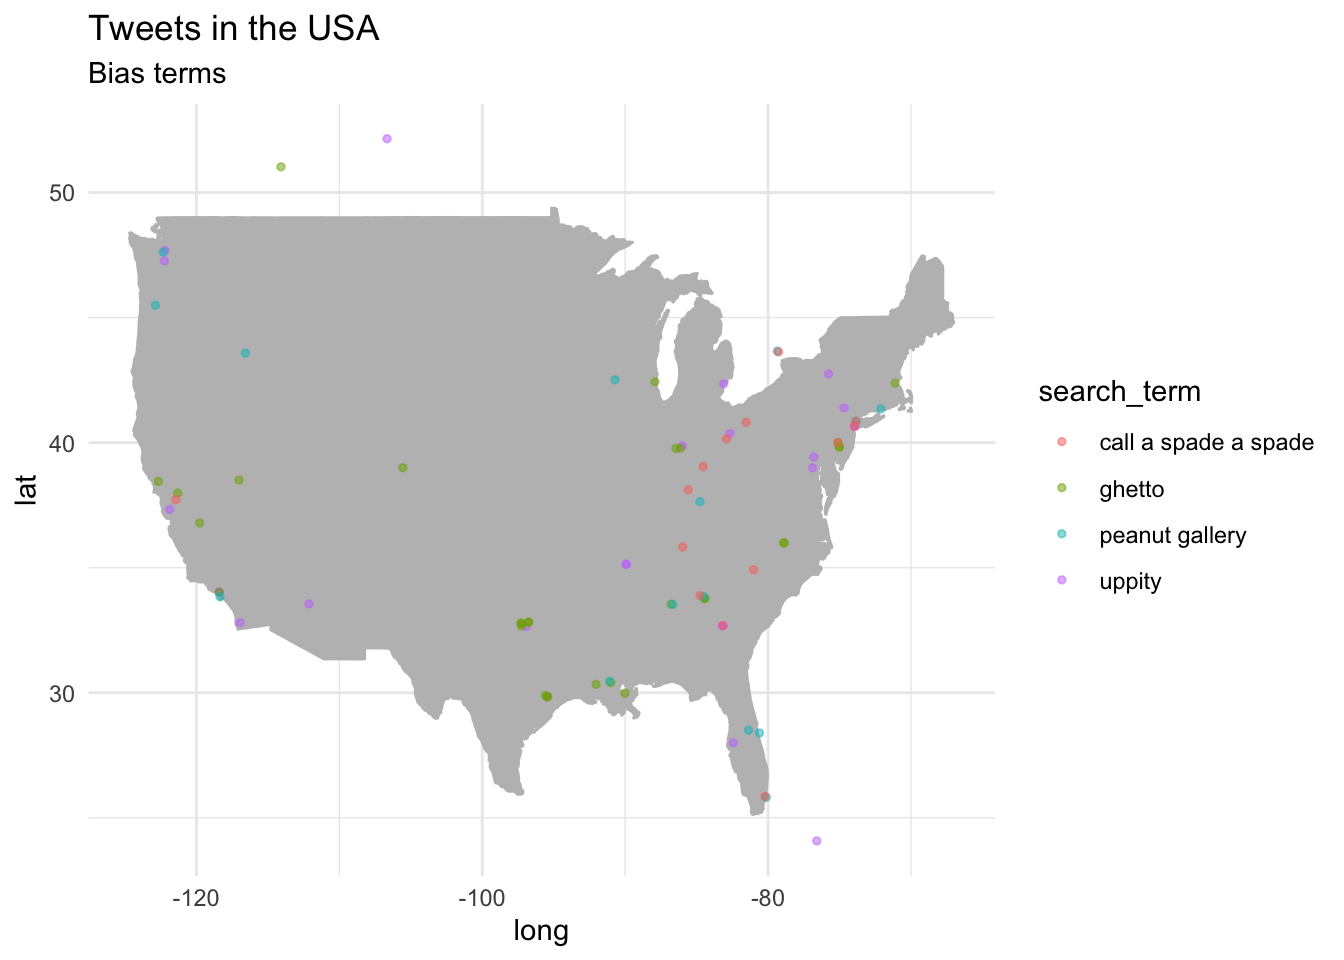
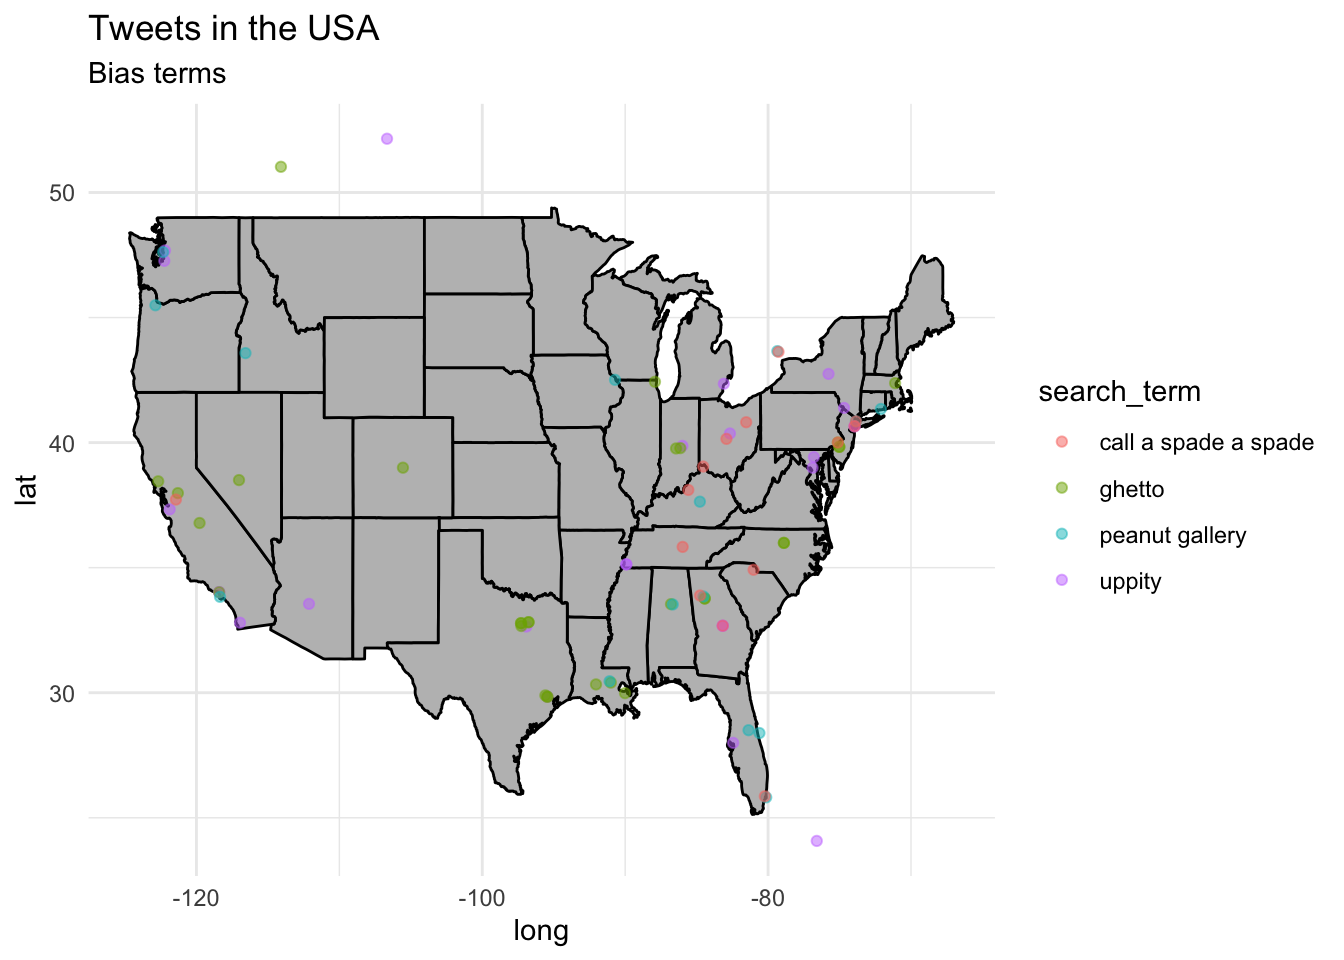
Updated articles and map on recipe 6

diff --git a/docs/articles/recipe_6.html b/docs/articles/recipe_6.html
@@ -393,27 +393,27 @@ Note: These recipes are dedicated to expanding the application of the programmin
 <code class="sourceCode R"><span class="fu"><a href="https://pillar.r-lib.org/reference/glimpse.html">glimpse</a></span><span class="op">(</span><span class="va">tweets</span><span class="op">)</span></code></pre></div>
 <pre><code>## Rows: 100
 ## Columns: 92
-## $ user_id                 &lt;chr&gt; "1269970209819045888", "315893213", "123557102…
-## $ status_id               &lt;chr&gt; "1444793146701983745", "1444792447184297985", …
-## $ created_at              &lt;dttm&gt; 2021-10-03 22:35:03, 2021-10-03 22:32:17, 202…
-## $ screen_name             &lt;chr&gt; "paul_brexit", "michaellevine2", "The_Yort", "…
-## $ text                    &lt;chr&gt; "@Sony09464725 @UKSpunkyMonkey @Mpatrick_71 @e…
-## $ source                  &lt;chr&gt; "Twitter for iPhone", "Twitter for iPhone", "T…
-## $ display_text_width      &lt;dbl&gt; 54, 97, 83, 32, 45, 5, 69, 161, 72, 81, 12, 13…
-## $ reply_to_status_id      &lt;chr&gt; "1444770684220153856", "1444764405359644678", …
-## $ reply_to_user_id        &lt;chr&gt; "1026818819845758977", "47379354", "7570743487…
-## $ reply_to_screen_name    &lt;chr&gt; "Sony09464725", "leahmcelrath", "seulkea", NA,…
-## $ is_quote                &lt;lgl&gt; FALSE, FALSE, FALSE, TRUE, FALSE, TRUE, FALSE,…
+## $ user_id                 &lt;chr&gt; "20908095", "1269970209819045888", "315893213"…
+## $ status_id               &lt;chr&gt; "1444794260478472193", "1444793146701983745", …
+## $ created_at              &lt;dttm&gt; 2021-10-03 22:39:29, 2021-10-03 22:35:03, 202…
+## $ screen_name             &lt;chr&gt; "GarrettsBrain", "paul_brexit", "michaellevine…
+## $ text                    &lt;chr&gt; "@CNNPolitics Don't you just hate uppity women…
+## $ source                  &lt;chr&gt; "Twitter Web App", "Twitter for iPhone", "Twit…
+## $ display_text_width      &lt;dbl&gt; 68, 54, 97, 83, 32, 45, 5, 69, 161, 72, 81, 12…
+## $ reply_to_status_id      &lt;chr&gt; "1444759174395711493", "1444770684220153856", …
+## $ reply_to_user_id        &lt;chr&gt; "13850422", "1026818819845758977", "47379354",…
+## $ reply_to_screen_name    &lt;chr&gt; "CNNPolitics", "Sony09464725", "leahmcelrath",…
+## $ is_quote                &lt;lgl&gt; FALSE, FALSE, FALSE, FALSE, TRUE, FALSE, TRUE,…
 ## $ is_retweet              &lt;lgl&gt; FALSE, FALSE, FALSE, FALSE, FALSE, FALSE, FALS…
-## $ favorite_count          &lt;int&gt; 0, 0, 1, 2, 1, 2, 2, 0, 0, 0, 1, 3, 0, 1, 0, 1…
-## $ retweet_count           &lt;int&gt; 0, 0, 0, 0, 1, 0, 0, 0, 0, 0, 0, 0, 0, 0, 0, 1…
+## $ favorite_count          &lt;int&gt; 0, 0, 0, 2, 2, 1, 2, 2, 0, 0, 0, 1, 3, 0, 1, 0…
+## $ retweet_count           &lt;int&gt; 0, 0, 0, 0, 0, 1, 0, 0, 0, 0, 0, 0, 0, 0, 0, 0…
 ## $ quote_count             &lt;int&gt; NA, NA, NA, NA, NA, NA, NA, NA, NA, NA, NA, NA…
 ## $ reply_count             &lt;int&gt; NA, NA, NA, NA, NA, NA, NA, NA, NA, NA, NA, NA…
-## $ hashtags                &lt;list&gt; NA, NA, NA, NA, "Steelers", NA, NA, NA, NA, N…
+## $ hashtags                &lt;list&gt; NA, NA, NA, NA, NA, "Steelers", NA, NA, NA, N…
 ## $ symbols                 &lt;list&gt; NA, NA, NA, NA, NA, NA, NA, NA, NA, NA, NA, N…
-## $ urls_url                &lt;list&gt; NA, NA, NA, "twitter.com/leciamichelle1…", NA…
-## $ urls_t.co               &lt;list&gt; NA, NA, NA, "https://t.co/11M8aTXweA", NA, "h…
-## $ urls_expanded_url       &lt;list&gt; NA, NA, NA, "https://twitter.com/leciamichell…
+## $ urls_url                &lt;list&gt; NA, NA, NA, NA, "twitter.com/leciamichelle1…"…
+## $ urls_t.co               &lt;list&gt; NA, NA, NA, NA, "https://t.co/11M8aTXweA", NA…
+## $ urls_expanded_url       &lt;list&gt; NA, NA, NA, NA, "https://twitter.com/leciamic…
 ## $ media_url               &lt;list&gt; NA, NA, NA, NA, NA, NA, NA, NA, NA, NA, NA, N…
 ## $ media_t.co              &lt;list&gt; NA, NA, NA, NA, NA, NA, NA, NA, NA, NA, NA, N…
 ## $ media_expanded_url      &lt;list&gt; NA, NA, NA, NA, NA, NA, NA, NA, NA, NA, NA, N…
@@ -422,24 +422,24 @@ Note: These recipes are dedicated to expanding the application of the programmin
 ## $ ext_media_t.co          &lt;list&gt; NA, NA, NA, NA, NA, NA, NA, NA, NA, NA, NA, N…
 ## $ ext_media_expanded_url  &lt;list&gt; NA, NA, NA, NA, NA, NA, NA, NA, NA, NA, NA, N…
 ## $ ext_media_type          &lt;chr&gt; NA, NA, NA, NA, NA, NA, NA, NA, NA, NA, NA, NA…
-## $ mentions_user_id        &lt;list&gt; &lt;"1026818819845758977", "316142137", "1515464…
-## $ mentions_screen_name    &lt;list&gt; &lt;"Sony09464725", "UKSpunkyMonkey", "Mpatrick_…
-## $ lang                    &lt;chr&gt; "en", "en", "en", "en", "en", "und", "en", "en…
-## $ quoted_status_id        &lt;chr&gt; NA, NA, NA, "1444717039449526283", NA, "144449…
-## $ quoted_text             &lt;chr&gt; NA, NA, NA, "So the wh.ite women are circling …
-## $ quoted_created_at       &lt;dttm&gt; NA, NA, NA, 2021-10-03 17:32:38, NA, 2021-10-…
-## $ quoted_source           &lt;chr&gt; NA, NA, NA, "Twitter for Android", NA, "WSC Sp…
-## $ quoted_favorite_count   &lt;int&gt; NA, NA, NA, 183, NA, 64766, NA, NA, NA, NA, NA…
-## $ quoted_retweet_count    &lt;int&gt; NA, NA, NA, 28, NA, 7842, NA, NA, NA, NA, NA, …
-## $ quoted_user_id          &lt;chr&gt; NA, NA, NA, "829488643152703488", NA, "2625716…
-## $ quoted_screen_name      &lt;chr&gt; NA, NA, NA, "LeciaMichelle11", NA, "SportsCent…
-## $ quoted_name             &lt;chr&gt; NA, NA, NA, "\U0001f41dVote like Black women\U…
-## $ quoted_followers_count  &lt;int&gt; NA, NA, NA, 8667, NA, 38169608, NA, NA, NA, NA…
-## $ quoted_friends_count    &lt;int&gt; NA, NA, NA, 6986, NA, 731, NA, NA, NA, NA, NA,…
-## $ quoted_statuses_count   &lt;int&gt; NA, NA, NA, 38497, NA, 129191, NA, NA, NA, NA,…
-## $ quoted_location         &lt;chr&gt; NA, NA, NA, "", NA, "", NA, NA, NA, NA, NA, NA…
-## $ quoted_description      &lt;chr&gt; NA, NA, NA, "Womanist. Founder of \"Real Talk:…
-## $ quoted_verified         &lt;lgl&gt; NA, NA, NA, FALSE, NA, TRUE, NA, NA, NA, NA, N…
+## $ mentions_user_id        &lt;list&gt; "13850422", &lt;"1026818819845758977", "31614213…
+## $ mentions_screen_name    &lt;list&gt; "CNNPolitics", &lt;"Sony09464725", "UKSpunkyMonk…
+## $ lang                    &lt;chr&gt; "en", "en", "en", "en", "en", "en", "und", "en…
+## $ quoted_status_id        &lt;chr&gt; NA, NA, NA, NA, "1444717039449526283", NA, "14…
+## $ quoted_text             &lt;chr&gt; NA, NA, NA, NA, "So the wh.ite women are circl…
+## $ quoted_created_at       &lt;dttm&gt; NA, NA, NA, NA, 2021-10-03 17:32:38, NA, 2021…
+## $ quoted_source           &lt;chr&gt; NA, NA, NA, NA, "Twitter for Android", NA, "WS…
+## $ quoted_favorite_count   &lt;int&gt; NA, NA, NA, NA, 186, NA, 64847, NA, NA, NA, NA…
+## $ quoted_retweet_count    &lt;int&gt; NA, NA, NA, NA, 29, NA, 7853, NA, NA, NA, NA, …
+## $ quoted_user_id          &lt;chr&gt; NA, NA, NA, NA, "829488643152703488", NA, "262…
+## $ quoted_screen_name      &lt;chr&gt; NA, NA, NA, NA, "LeciaMichelle11", NA, "Sports…
+## $ quoted_name             &lt;chr&gt; NA, NA, NA, NA, "\U0001f41dVote like Black wom…
+## $ quoted_followers_count  &lt;int&gt; NA, NA, NA, NA, 8667, NA, 38169642, NA, NA, NA…
+## $ quoted_friends_count    &lt;int&gt; NA, NA, NA, NA, 6986, NA, 731, NA, NA, NA, NA,…
+## $ quoted_statuses_count   &lt;int&gt; NA, NA, NA, NA, 38498, NA, 129191, NA, NA, NA,…
+## $ quoted_location         &lt;chr&gt; NA, NA, NA, NA, "", NA, "", NA, NA, NA, NA, NA…
+## $ quoted_description      &lt;chr&gt; NA, NA, NA, NA, "Womanist. Founder of \"Real T…
+## $ quoted_verified         &lt;lgl&gt; NA, NA, NA, NA, FALSE, NA, TRUE, NA, NA, NA, N…
 ## $ retweet_status_id       &lt;chr&gt; NA, NA, NA, NA, NA, NA, NA, NA, NA, NA, NA, NA…
 ## $ retweet_text            &lt;chr&gt; NA, NA, NA, NA, NA, NA, NA, NA, NA, NA, NA, NA…
 ## $ retweet_created_at      &lt;dttm&gt; NA, NA, NA, NA, NA, NA, NA, NA, NA, NA, NA, N…
@@ -464,25 +464,25 @@ Note: These recipes are dedicated to expanding the application of the programmin
 ## $ geo_coords              &lt;list&gt; &lt;NA, NA&gt;, &lt;NA, NA&gt;, &lt;NA, NA&gt;, &lt;NA, NA&gt;, &lt;NA, …
 ## $ coords_coords           &lt;list&gt; &lt;NA, NA&gt;, &lt;NA, NA&gt;, &lt;NA, NA&gt;, &lt;NA, NA&gt;, &lt;NA, …
 ## $ bbox_coords             &lt;list&gt; &lt;NA, NA, NA, NA, NA, NA, NA, NA&gt;, &lt;NA, NA, NA…
-## $ status_url              &lt;chr&gt; "https://twitter.com/paul_brexit/status/144479…
-## $ name                    &lt;chr&gt; "Na Paul", "Don't Shoot Me I'm Only The Piano …
-## $ location                &lt;chr&gt; "Earth", "New York", "Tampa, FL", "San Antonio…
-## $ description             &lt;chr&gt; "", "married, 3 children who don’t think I’m f…
-## $ url                     &lt;chr&gt; NA, "https://t.co/QLBT3A2fs0", NA, "https://t.…
+## $ status_url              &lt;chr&gt; "https://twitter.com/GarrettsBrain/status/1444…
+## $ name                    &lt;chr&gt; "Garrett Powell", "Na Paul", "Don't Shoot Me I…
+## $ location                &lt;chr&gt; "Florida, USA", "Earth", "New York", "Tampa, F…
+## $ description             &lt;chr&gt; "Neurosurgeon. Mad scientist. Raconteur. Prono…
+## $ url                     &lt;chr&gt; NA, NA, "https://t.co/QLBT3A2fs0", NA, "https:…
 ## $ protected               &lt;lgl&gt; FALSE, FALSE, FALSE, FALSE, FALSE, FALSE, FALS…
-## $ followers_count         &lt;int&gt; 43, 17219, 542, 1877, 35, 35, 1599, 133, 309, …
-## $ friends_count           &lt;int&gt; 84, 17134, 668, 1724, 106, 106, 1713, 904, 223…
-## $ listed_count            &lt;int&gt; 0, 7, 10, 4, 0, 0, 29, 1, 3, 0, 0, 0, 12, 1, 6…
-## $ statuses_count          &lt;int&gt; 3491, 39545, 28563, 123494, 391, 391, 77140, 6…
-## $ favourites_count        &lt;int&gt; 4, 45852, 66991, 182832, 838, 838, 161576, 149…
-## $ account_created_at      &lt;dttm&gt; 2020-06-08 12:31:21, 2011-06-12 16:25:25, 202…
+## $ followers_count         &lt;int&gt; 118, 43, 17219, 542, 1877, 35, 35, 1599, 133, …
+## $ friends_count           &lt;int&gt; 283, 84, 17134, 668, 1724, 106, 106, 1713, 904…
+## $ listed_count            &lt;int&gt; 1, 0, 7, 10, 4, 0, 0, 29, 1, 3, 0, 0, 0, 12, 1…
+## $ statuses_count          &lt;int&gt; 3821, 3493, 39545, 28563, 123494, 391, 391, 77…
+## $ favourites_count        &lt;int&gt; 94, 4, 45851, 66991, 182837, 838, 838, 161576,…
+## $ account_created_at      &lt;dttm&gt; 2009-02-15 12:54:43, 2020-06-08 12:31:21, 201…
 ## $ verified                &lt;lgl&gt; FALSE, FALSE, FALSE, FALSE, FALSE, FALSE, FALS…
-## $ profile_url             &lt;chr&gt; NA, "https://t.co/QLBT3A2fs0", NA, "https://t.…
-## $ profile_expanded_url    &lt;chr&gt; NA, "http://www.queenspace.org", NA, "https://…
+## $ profile_url             &lt;chr&gt; NA, NA, "https://t.co/QLBT3A2fs0", NA, "https:…
+## $ profile_expanded_url    &lt;chr&gt; NA, NA, "http://www.queenspace.org", NA, "http…
 ## $ account_lang            &lt;lgl&gt; NA, NA, NA, NA, NA, NA, NA, NA, NA, NA, NA, NA…
-## $ profile_banner_url      &lt;chr&gt; "https://pbs.twimg.com/profile_banners/1269970…
-## $ profile_background_url  &lt;chr&gt; NA, "http://abs.twimg.com/images/themes/theme1…
-## $ profile_image_url       &lt;chr&gt; "http://pbs.twimg.com/profile_images/133096099…
+## $ profile_banner_url      &lt;chr&gt; "https://pbs.twimg.com/profile_banners/2090809…
+## $ profile_background_url  &lt;chr&gt; "http://abs.twimg.com/images/themes/theme1/bg.…
+## $ profile_image_url       &lt;chr&gt; "http://pbs.twimg.com/profile_images/809467403…
 ## $ lat                     &lt;dbl&gt; NA, NA, NA, NA, NA, NA, NA, NA, NA, NA, NA, NA…
 ## $ lng                     &lt;dbl&gt; NA, NA, NA, NA, NA, NA, NA, NA, NA, NA, NA, NA…</code></pre>
 <p>OK. Since we are going to want to pass various terms/ expressions to this function we will also want to make sure that the search query is added to the structure of the data frame. We do this by creating a variable to pass to the <code>q</code> argument and then add a column to the data frame with <code><a href="https://dplyr.tidyverse.org/reference/mutate.html">mutate()</a></code>.</p>
@@ -588,15 +588,13 @@ Note: These recipes are dedicated to expanding the application of the programmin
 <span class="op">}</span></code></pre></div>
 <p>Just for fun, let’s map these tweets and color the points on the map according to the specific bias term. We get the geocoordinates from the <code>lat</code> and <code>lng</code> variables extracted by the <code><a href="https://rdrr.io/pkg/rtweet/man/lat_lng.html">lat_lng()</a></code> function.</p>
 <div class="sourceCode" id="cb68"><pre class="downlit sourceCode r">
-<code class="sourceCode R"><span class="va">tweets_geo</span> <span class="op">&lt;-</span> <span class="fu"><a href="https://rdrr.io/pkg/rtweet/man/lat_lng.html">lat_lng</a></span><span class="op">(</span><span class="va">results</span><span class="op">)</span>  <span class="co"># retrieve the lat and long coords from the embedded list</span>
-
-<span class="va">states_map</span> <span class="op">&lt;-</span> <span class="fu"><a href="https://ggplot2.tidyverse.org/reference/map_data.html">map_data</a></span><span class="op">(</span><span class="st">"state"</span><span class="op">)</span>  <span class="co"># from ggplot2</span>
+<code class="sourceCode R"><span class="va">states_map</span> <span class="op">&lt;-</span> <span class="fu"><a href="https://ggplot2.tidyverse.org/reference/map_data.html">map_data</a></span><span class="op">(</span><span class="st">"state"</span><span class="op">)</span>  <span class="co"># from ggplot2</span>
 
 <span class="va">p</span> <span class="op">&lt;-</span> <span class="fu"><a href="https://ggplot2.tidyverse.org/reference/ggplot.html">ggplot</a></span><span class="op">(</span><span class="op">)</span> <span class="op">+</span> <span class="fu"><a href="https://ggplot2.tidyverse.org/reference/geom_polygon.html">geom_polygon</a></span><span class="op">(</span>data <span class="op">=</span> <span class="va">states_map</span>, <span class="fu"><a href="https://ggplot2.tidyverse.org/reference/aes.html">aes</a></span><span class="op">(</span>x <span class="op">=</span> <span class="va">long</span>, y <span class="op">=</span> <span class="va">lat</span>, group <span class="op">=</span> <span class="va">group</span><span class="op">)</span>,
-    fill <span class="op">=</span> <span class="st">"grey"</span>, color <span class="op">=</span> <span class="st">"grey"</span><span class="op">)</span> <span class="op">+</span> <span class="fu"><a href="https://ggplot2.tidyverse.org/reference/labs.html">labs</a></span><span class="op">(</span>title <span class="op">=</span> <span class="st">"Tweets in the USA"</span>, subtitle <span class="op">=</span> <span class="st">"Bias terms"</span><span class="op">)</span>
+    fill <span class="op">=</span> <span class="st">"grey"</span>, color <span class="op">=</span> <span class="st">"black"</span><span class="op">)</span> <span class="op">+</span> <span class="fu"><a href="https://ggplot2.tidyverse.org/reference/labs.html">labs</a></span><span class="op">(</span>title <span class="op">=</span> <span class="st">"Tweets in the USA"</span>, subtitle <span class="op">=</span> <span class="st">"Bias terms"</span><span class="op">)</span>
 
 <span class="va">p</span> <span class="op">+</span> <span class="fu"><a href="https://ggplot2.tidyverse.org/reference/geom_point.html">geom_point</a></span><span class="op">(</span>data <span class="op">=</span> <span class="va">results</span>, <span class="fu"><a href="https://ggplot2.tidyverse.org/reference/aes.html">aes</a></span><span class="op">(</span>x <span class="op">=</span> <span class="va">lng</span>, y <span class="op">=</span> <span class="va">lat</span>, group <span class="op">=</span> <span class="fl">1</span>, color <span class="op">=</span> <span class="va">search_term</span><span class="op">)</span>,
-    alpha <span class="op">=</span> <span class="fl">1</span><span class="op">/</span><span class="fl">2</span>, size <span class="op">=</span> <span class="fl">1</span><span class="op">)</span></code></pre></div>
+    alpha <span class="op">=</span> <span class="fl">1</span><span class="op">/</span><span class="fl">2</span>, size <span class="op">=</span> <span class="fl">1.5</span><span class="op">)</span></code></pre></div>
 <p><img src="recipe_6_files/figure-html/usa-map-test-1.png" width="85%" style="display: block; margin: auto;"></p>
 </div>
 <div id="webscrape-text" class="section level3">
